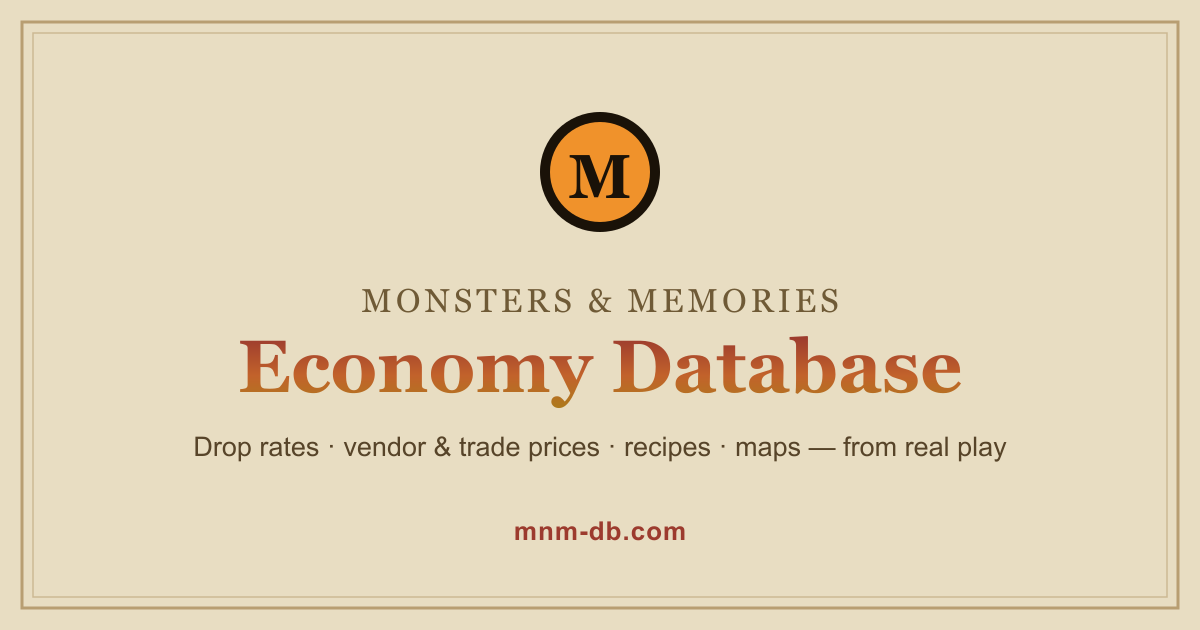
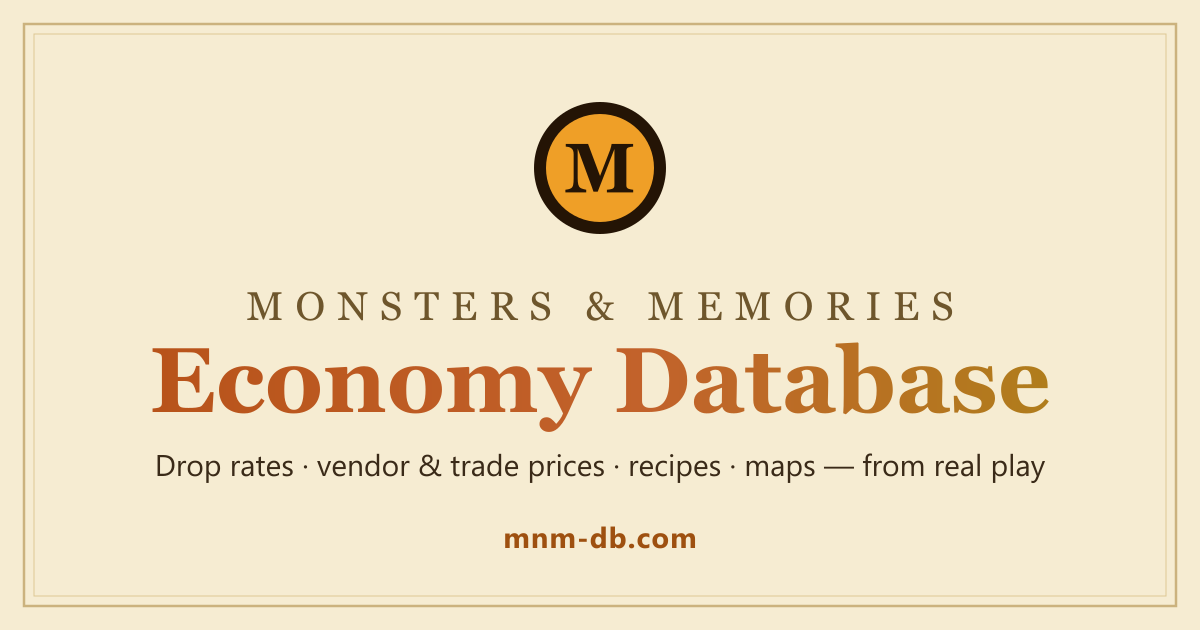
og-image: repaint social card to match the Sunset theme
Regenerates the 1200x630 share card on the sunlit-gold paper with the sunset
gradient title and burnt-orange URL. Saves the generator as
scripts/gen-og-image.js so it's reproducible (was a one-off before).

diff --git a/scripts/gen-og-image.js b/scripts/gen-og-image.js
@@ -1,0 +1,32 @@
+// Renders the social share card (mnmdb/og-image.png, 1200x630) from the Sunset
+// light-theme palette. Run from the repo root:  node scripts/gen-og-image.js
+const sharp = require('sharp');
+const path = require('path');
+
+const OUT = path.resolve(__dirname, '..', 'mnmdb', 'og-image.png');
+const serif = "Georgia, 'Times New Roman', serif";
+const sans = "'Segoe UI', 'Helvetica Neue', Arial, sans-serif";
+
+const svg = `<svg xmlns="http://www.w3.org/2000/svg" width="1200" height="630" viewBox="0 0 1200 630">
+  <defs>
+    <linearGradient id="sun" x1="0" y1="0" x2="1" y2="0">
+      <stop offset="0" stop-color="#b8531a"/>
+      <stop offset="0.55" stop-color="#c2622b"/>
+      <stop offset="1" stop-color="#b07d1c"/>
+    </linearGradient>
+  </defs>
+  <rect x="0" y="0" width="1200" height="630" fill="#f6ecd2"/>
+  <rect x="24" y="24" width="1152" height="582" fill="none" stroke="#cbb27e" stroke-width="2.5"/>
+  <rect x="34" y="34" width="1132" height="562" fill="none" stroke="#ddc794" stroke-width="1"/>
+  <circle cx="600" cy="168" r="66" fill="#241405"/>
+  <circle cx="600" cy="168" r="54" fill="#ef9f27"/>
+  <text x="600" y="168" text-anchor="middle" dominant-baseline="central" font-family="${serif}" font-weight="700" font-size="70" fill="#241405">M</text>
+  <text x="600" y="320" text-anchor="middle" font-family="${serif}" font-size="40" letter-spacing="12" fill="#6e562c">MONSTERS &amp; MEMORIES</text>
+  <text x="600" y="412" text-anchor="middle" font-family="${serif}" font-weight="700" font-size="92" fill="url(#sun)">Economy Database</text>
+  <text x="600" y="476" text-anchor="middle" font-family="${sans}" font-size="30" fill="#3a2a18">Drop rates &#183; vendor &amp; trade prices &#183; recipes &#183; maps &#8212; from real play</text>
+  <text x="600" y="548" text-anchor="middle" font-family="${sans}" font-weight="700" font-size="29" letter-spacing="1" fill="#9e5010">mnm-db.com</text>
+</svg>`;
+
+sharp(Buffer.from(svg)).png().toFile(OUT).then((info) => {
+  console.log('wrote', OUT, info.width + 'x' + info.height, Math.round(info.size / 1024) + 'KB');
+}).catch((e) => { console.error(e); process.exit(1); });